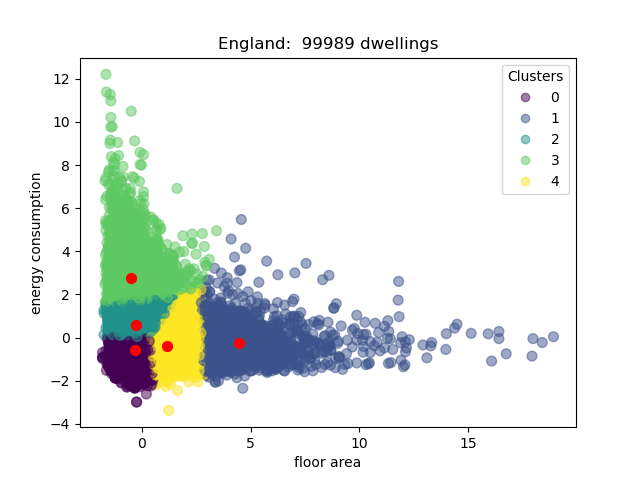
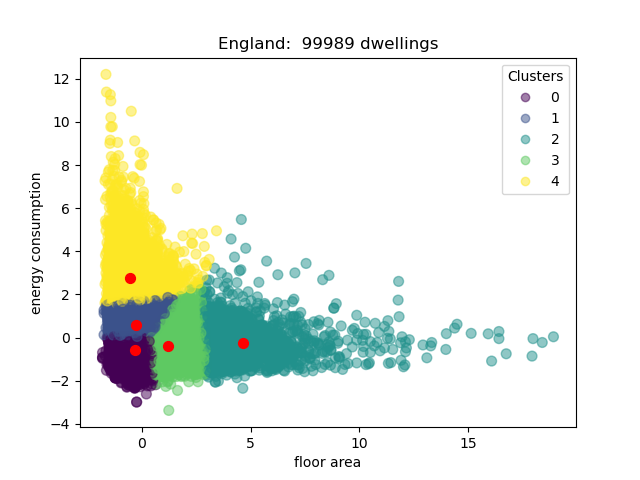
kmedoids removing outliers and rescaling

Changed region(s): [[0.1562, 0.125, 0.875, 0.875], [0.5, 0.5625, 0.5312, 0.5938], [0.4688, 0.5312, 0.5, 0.5625]]

diff --git a/src/at/uibk/epc/clustering/kmedoids/kmedoids_clustering_per_country.py b/src/at/uibk/epc/clustering/kmedoids/kmedoids_clustering_per_country.py
@@ -18,7 +18,7 @@ def pd_centers(cols_of_interest, centers):
     return P
 
 
-def kmedoids_clustering(country, dbData, thermalFields, clusters):
+def kmedoids_clustering(country, dbData, thermalFields, clusters, floor_area_outlier_borders, energy_consumption_outlier_borders):
 
     # https://hackersandslackers.com/json-into-pandas-dataframes/
     # json_normalize has as default separator '.', since we have float numbers in our data, we set the column separator for the normalization to '_'
@@ -34,9 +34,76 @@ def kmedoids_clustering(country, dbData, thermalFields, clusters):
     # fitting the data is quite important, the clusters are now more like circles; the non-fitted data was more like strapes.
     slim_fitted_df = StandardScaler().fit_transform(slim_data_df)
 
+    # remove the outliers which we detected already visually by running a kmeans plot before
+    print("=== Outliers")
+    # however, first convert the data back into a dataframe
+    slim_data_df_optimised = pd.DataFrame(
+        slim_fitted_df, columns=['ratedDwelling_spatialData_totalFloorArea_value', thermalFields])
+
+    print(slim_data_df_optimised.shape)
+    print(slim_data_df_optimised)
+
+    print(country + ' outlier borders floor_area' +
+          str(floor_area_outlier_borders))
+    print(country + ' outlier borders energy_consumption' +
+          str(energy_consumption_outlier_borders))
+
+    print('Outliers')
+    slim_data_df_optimised_floor_area = slim_data_df_optimised[slim_data_df_optimised[
+        'ratedDwelling_spatialData_totalFloorArea_value'] >= floor_area_outlier_borders[0]]
+    slim_data_df_optimised_energy_consumption = slim_data_df_optimised[
+        slim_data_df_optimised[thermalFields] > energy_consumption_outlier_borders[0]]
+
+    print(slim_data_df_optimised_floor_area)
+
+    if country == 'England':
+        slim_data_df_optimised_energy_consumption_lower = slim_data_df_optimised[
+            slim_data_df_optimised[thermalFields] < energy_consumption_outlier_borders[1]]
+        print(slim_data_df_optimised_energy_consumption_lower)
+        frames = [slim_data_df_optimised_energy_consumption,
+                  slim_data_df_optimised_energy_consumption_lower]
+        slim_data_df_optimised_energy_consumption = pd.concat(
+            frames, sort=False)
+    print(slim_data_df_optimised_energy_consumption)
+
+    print("Outliers indexes")
+    index_outliers_floorArea = slim_data_df_optimised_floor_area.index.values
+    index_outliers_thermal = slim_data_df_optimised_energy_consumption.index.values
+
+    print("index_outliers_floorArea")
+    print(index_outliers_floorArea)
+    print("index_outliers_thermal")
+    print(index_outliers_thermal)
+
+    # Removing the Outliers
+    slim_data_df_optimised = slim_data_df_optimised.drop(
+        index=index_outliers_floorArea)
+    slim_data_df_optimised = slim_data_df_optimised.drop(
+        index=index_outliers_thermal)
+    print("scaled data after droping the outliers")
+    print(slim_data_df_optimised.shape)
+
+    print("rechecking")
+    print(slim_data_df_optimised[slim_data_df_optimised_floor_area])
+    print(slim_data_df_optimised[slim_data_df_optimised_energy_consumption])
+
+    print("transforming the optimised dataset back to an array")
+    slim_data_df_optimised_as_array = slim_data_df_optimised.to_numpy()
+    print(slim_data_df_optimised_as_array.shape)
+    print(type(slim_data_df_optimised_as_array))
+
+    # remove the same index rows in the original data
+    data_df = data_df.drop(
+        index=index_outliers_floorArea)
+    data_df = data_df.drop(index=index_outliers_thermal)
+    print("original data after droping the outliers")
+    print(data_df.shape)
+
+    print("=== Outliers END")
+
     # preset the number of clusters
     kmedoids = KMedoids(n_clusters=clusters,
-                        random_state=0).fit(slim_fitted_df)
+                        random_state=0).fit(slim_data_df_optimised_as_array)
     print("labels")
     print(kmedoids.labels_)
 
@@ -50,8 +117,8 @@ def kmedoids_clustering(country, dbData, thermalFields, clusters):
     print("predictions")
     print(kmedoids.predict([[-0.98965, -0.3211], [0.6, -0.300]]))
 
-    scatter = plt.scatter(slim_fitted_df[:, 0],
-                          slim_fitted_df[:, 1], c=kmedoids.labels_.astype(float), s=50, alpha=0.5)
+    scatter = plt.scatter(slim_data_df_optimised_as_array[:, 0],
+                          slim_data_df_optimised_as_array[:, 1], c=kmedoids.labels_.astype(float), s=50, alpha=0.5)
 
     centroids = kmedoids.cluster_centers_
     plt.scatter(centroids[:, 0], centroids[:, 1], c='red', s=50)
@@ -60,7 +127,7 @@ def kmedoids_clustering(country, dbData, thermalFields, clusters):
     plt.ylabel("energy consumption")
 
     plt.title(country + ":  " +
-              str(len(slim_data_df) + 1) + " dwellings")
+              str(len(slim_data_df_optimised_as_array) + 1) + " dwellings")
 
     plt.legend(*scatter.legend_elements(),
                loc='upper right', title="Clusters")

diff --git a/src/at/uibk/epc/clustering/kmeans/clustering_per_country_England_minimal.py b/src/at/uibk/epc/clustering/kmeans/clustering_per_country_England_minimal.py
@@ -1,19 +1,15 @@
-from db_data_per_country import getRawData
-from kmedoids_clustering_per_country import kmedoids_clustering
-from sklearn_extra.cluster import KMedoids
-from sklearn.preprocessing import StandardScaler
+from pathlib import Path
+from sklearn import metrics
 import pandas as pd
 import numpy as np
+from sklearn.cluster import KMeans
+from sklearn.preprocessing import StandardScaler
 import matplotlib.pyplot as plt
+from db_data_per_country import getRawData
+from clustering_per_country import clustering_kmeans
 import os
-from pathlib import Path
 
-# limit 40.000 is ok but takes a lot of time to process and cluster 3 is empty for k=5.
-# limit 10.000, cluster=5, inertia aprox 5300
-#limit = 10000
-#clusters = 5
-
-# due to memory issues, the same amount of input data as for k-means is not usable for kmedoids
+# here we use the same amount of input data as for the k-medoids example
 country = 'England'
 connectionString = 'mongodb+srv://engl_1:GY9s0BNDrTNjvLFK@cluster0.ojmf2.mongodb.net/EPC?retryWrites=true&w=majority'
 queryLimit = 20000
@@ -36,6 +32,5 @@ floor_area_outlier_borders = [
 energy_consumption_outlier_borders = [
     energy_consumption_upper_border, energy_consumption_lower_border]
 
-
-kmedoids_clustering(country, dbData, thermalFields, k,
-                    floor_area_outlier_borders, energy_consumption_outlier_borders)
+clustering_kmeans(k, country, dbData, thermalFields,
+                  floor_area_outlier_borders, energy_consumption_outlier_borders)

diff --git a/src/at/uibk/epc/clustering/kmeans/clustering_per_country.py b/src/at/uibk/epc/clustering/kmeans/clustering_per_country.py
@@ -89,12 +89,6 @@ def clustering_kmeans(k_clusters, country, dbData, queryThermalDataFields, floor
         index=index_outliers_thermal)
     print("scaled data after droping the outliers")
     print(slim_data_df_optimised.shape)
-    # remove the same index rows in the original data
-    data_df = data_df.drop(
-        index=index_outliers_floorArea)
-    data_df = data_df.drop(index=index_outliers_thermal)
-    print("original data after droping the outliers")
-    print(data_df.shape)
 
     print("rechecking")
     print(slim_data_df_optimised[slim_data_df_optimised_floor_area])
@@ -104,6 +98,13 @@ def clustering_kmeans(k_clusters, country, dbData, queryThermalDataFields, floor
     slim_data_df_optimised_as_array = slim_data_df_optimised.to_numpy()
     print(slim_data_df_optimised_as_array.shape)
     print(type(slim_data_df_optimised_as_array))
+
+    # remove the same index rows in the original data
+    data_df = data_df.drop(
+        index=index_outliers_floorArea)
+    data_df = data_df.drop(index=index_outliers_thermal)
+    print("original data after droping the outliers")
+    print(data_df.shape)
     print("=== Outliers END")
 
     # what about fit_predict?

diff --git a/src/at/uibk/epc/clustering/kmedoids/kmedoids_clustering_per_France.py b/src/at/uibk/epc/clustering/kmedoids/kmedoids_clustering_per_France.py
@@ -25,4 +25,16 @@ dbData = getRawData(
 k = 4
 thermalFields = 'ratedDwelling_thermalData_finalEnergyConsumption_value'
 
-kmedoids_clustering(country, dbData, thermalFields, k)
+# Defining border for outlier elimination
+floor_area_outlier_upper_border = 10
+
+energy_consumption_upper_border = 3
+energy_consumption_lower_border = -5
+
+floor_area_outlier_borders = [
+    floor_area_outlier_upper_border]
+energy_consumption_outlier_borders = [
+    energy_consumption_upper_border, energy_consumption_lower_border]
+
+kmedoids_clustering(country, dbData, thermalFields,
+                    k,  floor_area_outlier_borders, energy_consumption_outlier_borders)
